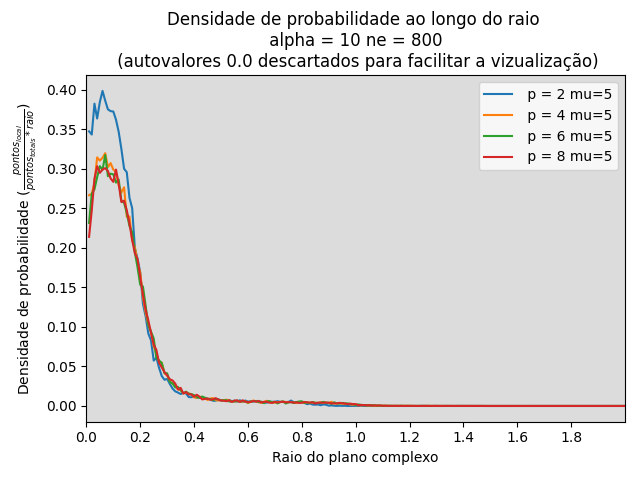
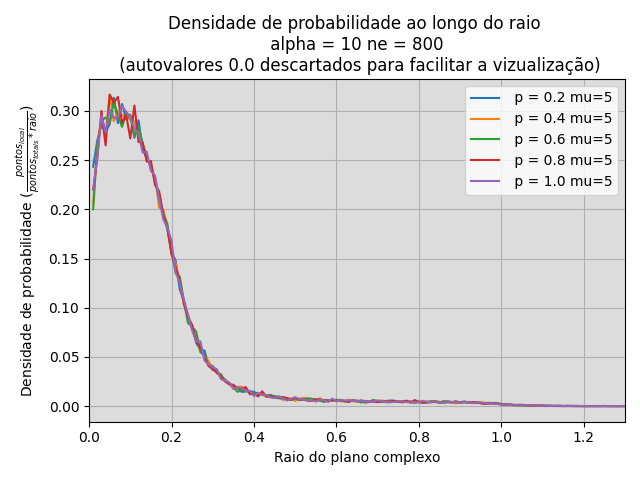
leo

diff --git a/plot_hist.py b/plot_hist.py
@@ -13,8 +13,9 @@ def grafico_justos(data):
     ax.plot(keys, values, label=f" p = {p} mu={mu}")
     plt.xlabel("Raio do plano complexo")
     plt.ylabel('Densidade de probabilidade $(\\frac{pontos_{local}}{pontos_{totais}*raio})$')
-    plt.xticks(np.arange(0, 2, 0.2))
-    plt.xlim(0, 2)
+    plt.xticks(np.arange(0, 1.3, 0.2))
+    plt.xlim(0, 1.3)
+    plt.grid(True)
     ax.set_facecolor('gainsboro')
     plt.title(f"Densidade de probabilidade ao longo do raio \n alpha = {alpha} ne = {ne} \n (autovalores 0.0 descartados para facilitar a vizualização)")
     plt.tight_layout() 
@@ -28,6 +29,7 @@ def graficos(data):
     
     plt.bar(keys, values, width=0.1)
     ax = plt.gca()
+    plt.grid(True)
     ax.set_facecolor('gainsboro')
     plt.xlabel('Raio do plano complexo')
     plt.ylabel('Densidade de pontos (n pontos/área)')
@@ -64,13 +66,13 @@ def segmentation(matrix, passo):
 for alpha in [10]:
     for ne in [800]:
         for mu in [5]:
-            for p in [x for x in range(2,10,2)]:
+            for p in [x/10 for x in range(2,11,2)]:
                 x = []
                 y = []
                 radius = []
 
                 # Ler os dados do arquivo
-                with open("barabasi/dados_p{}_alpha{}_Ne{}_mu{}.txt".format(p, alpha, ne, mu), "r") as arq:
+                with open("dados/dados_p{}_alpha{}_Ne{}_mu{}.txt".format(p, alpha, ne, mu), "r") as arq:
                     for line in arq:
                         parts = line.split()
                         x.append(float(parts[0]))

diff --git a/verificação da topologia da rede/main.py b/verificação da topologia da rede/main.py
@@ -63,10 +63,10 @@ def main():
 
     #loop para rodar todos os testes
     for i in range(30):
-        for mu_E in [5]:
+        for mu_E in [1, 3, 5, 7]:
             for Ne in [800]:
                 for alpha in [10]:
-                    for p in [x/10 for x in range(2,11,2)]:
+                    for p in [0.5]:
                         #matriz = BA(N, p)
                         matriz = ED(N, p)
                     

diff --git a/complexplot.py b/complexplot.py
@@ -6,7 +6,7 @@ import os
 for ne in [800]:
     for mu in [5]:
         for alpha in [10]:
-            for p in [x for x in range(2,10,2)]:
+            for p in [x/10 for x in range(2,10,2)]:
                 x = []
                 y = []
 
